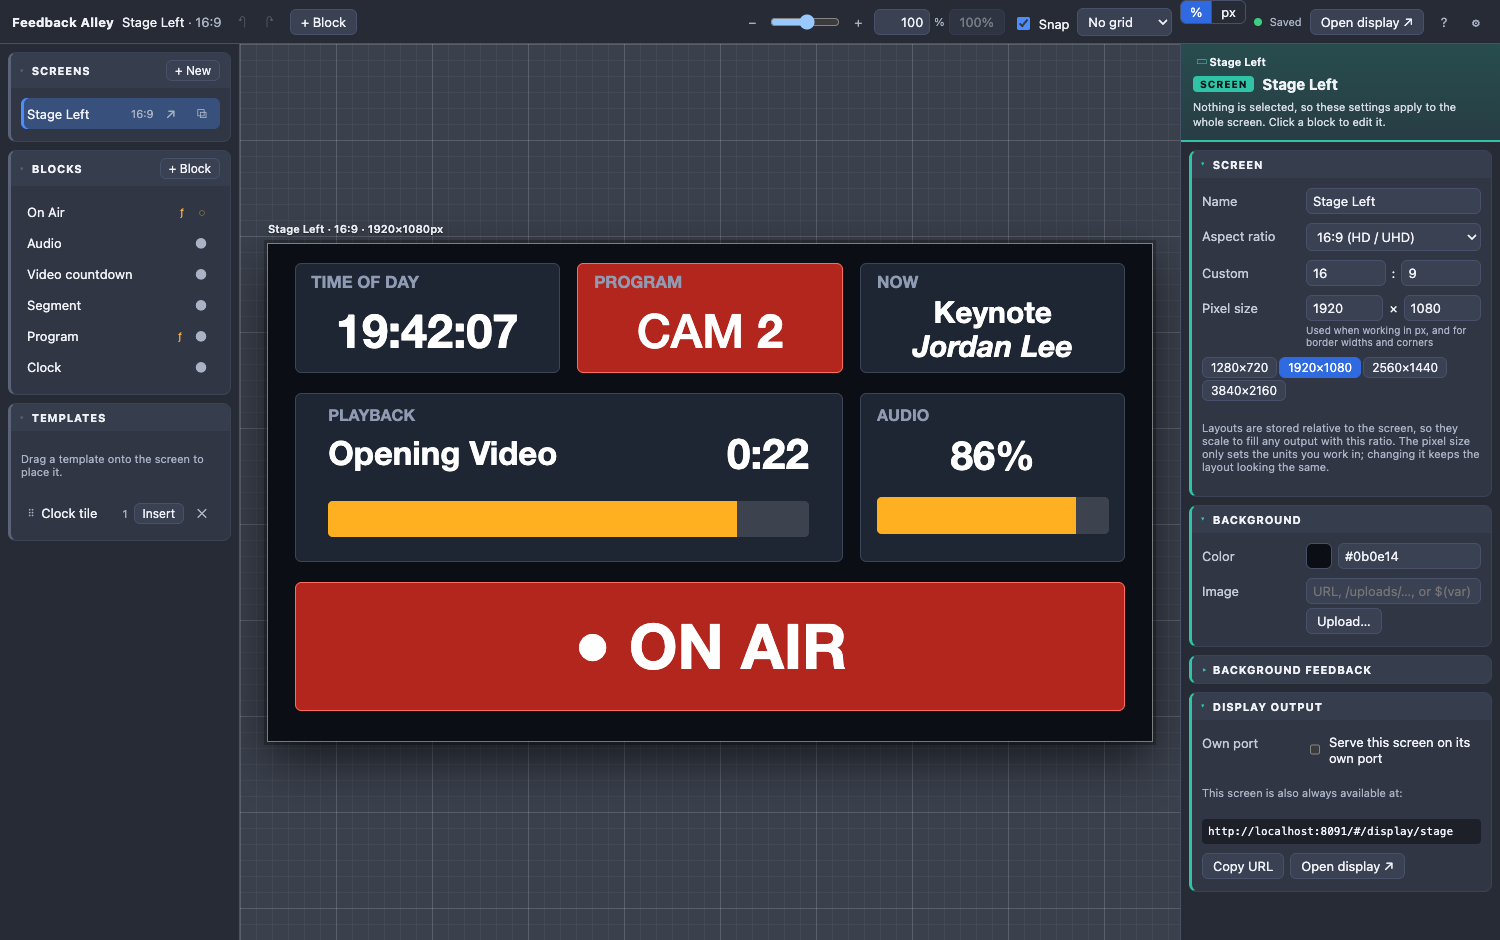
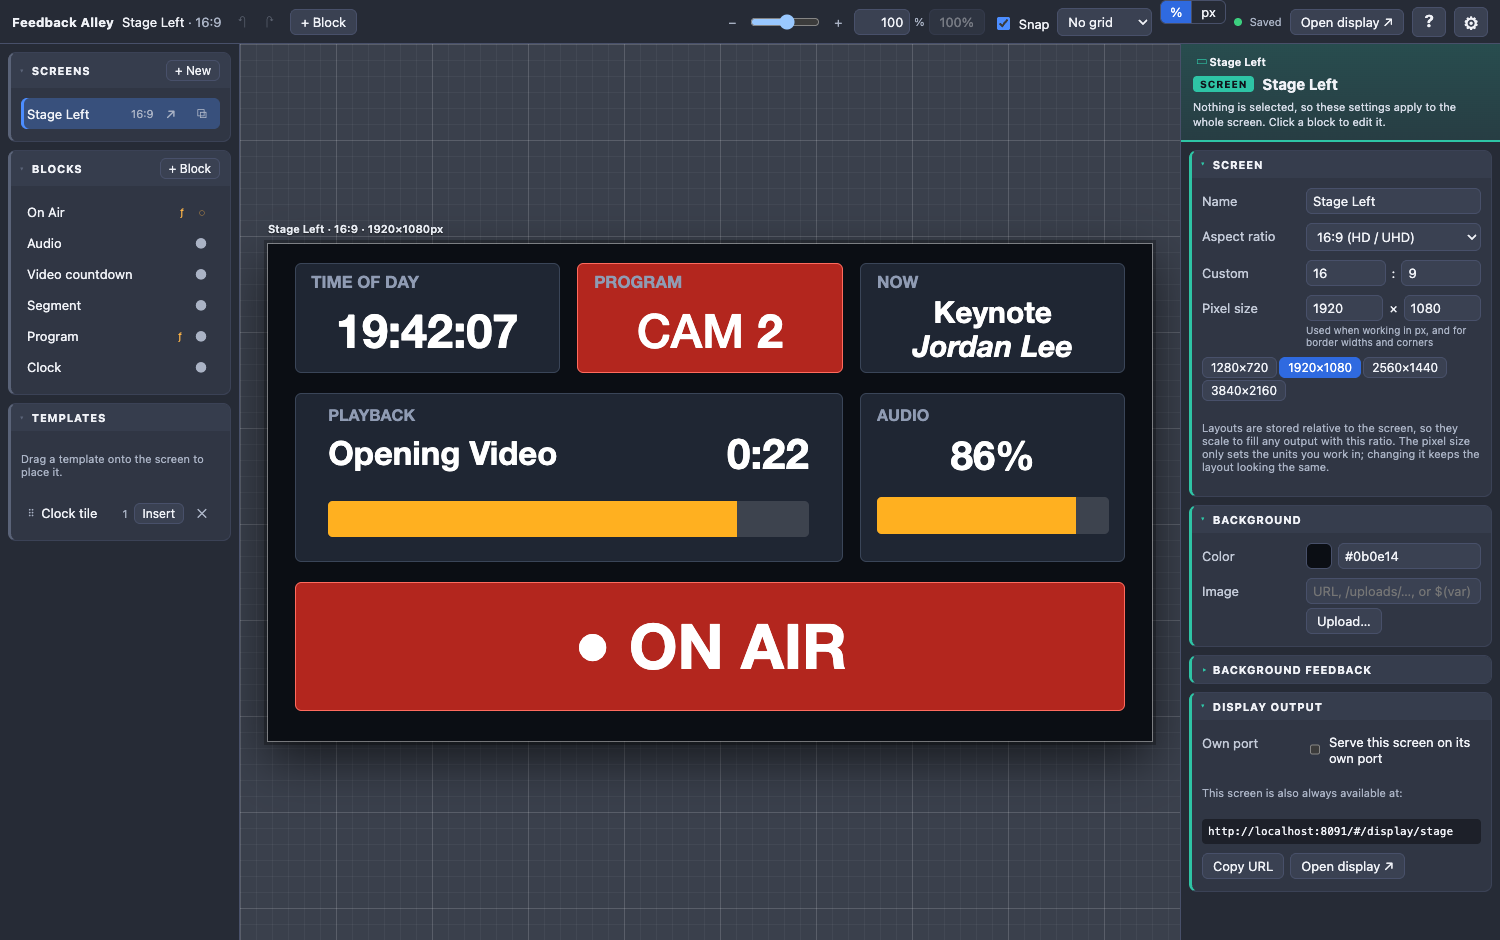
Layers can be fixed size (keep their size, pinned to an anchor) or relative to their block; bigger Settings and help buttons

Changed region(s): [[0.4907, 0.0, 1.0, 0.0617]]

diff --git a/src/editor/Inspector.tsx b/src/editor/Inspector.tsx
@@ -1,7 +1,7 @@
 import type { ReactNode } from 'react';
 import { useEffect, useState } from 'react';
 import { api } from '../lib/api';
-import type { BarLayer, Block, GroupLayer, ImageLayer, Layer, Rect, Screen, ShapeLayer, TextLayer } from '../types';
+import type { Anchor, BarLayer, Block, GroupLayer, ImageLayer, Layer, Rect, Screen, ShapeLayer, TextLayer } from '../types';
 import { ASPECT_PRESETS, RESOLUTIONS } from '../lib/defaults';
 import { containerAt, containerRect, countLayers, groupAt } from '../lib/tree';
 import { rectPx, scaleStrokes, screenPx } from '../lib/pixels';
@@ -10,6 +10,7 @@ import { useActions, type AlignMode } from './actions';
 import { RulesEditor, type RuleProp } from './RulesEditor';
 import { RichTextField } from './RichTextField';
 import { BarProps } from './BarProps';
+import { nearestAnchor } from '../lib/fixed';
 import { ColorField, ImageField, NumberField, Row, Section, Segmented, Select, Slider, TextField, Toggle } from './fields';
 
 export const FONT_SUGGESTIONS = [
@@ -284,6 +285,61 @@ function GeometryFields({ rect, onChange, unit, frame }: { rect: Rect; onChange:
           </label>
         ))}
       </div>
+    </>
+  );
+}
+
+const ANCHOR_NAMES: Record<Anchor, [string, string]> = { 0: ['left', 'top'], 0.5: ['center', 'middle'], 1: ['right', 'bottom'] };
+const ANCHORS: Anchor[] = [0, 0.5, 1];
+
+// Relative layers resize with their block or group; fixed ones keep their size,
+// held in place by an anchor (see lib/fixed.ts).
+function SizingFields({ layer, parentKind, set }: { layer: Layer; parentKind: string; set: Setter }) {
+  const fixed = layer.sizing === 'fixed';
+  const ax = layer.anchorX ?? 0.5;
+  const ay = layer.anchorY ?? 0.5;
+  const anchorLabel = (x: Anchor, y: Anchor) =>
+    x === 0.5 && y === 0.5 ? 'center' : x === 0.5 ? ANCHOR_NAMES[y][1] : y === 0.5 ? ANCHOR_NAMES[x][0] : `${ANCHOR_NAMES[y][1]} ${ANCHOR_NAMES[x][0]}`;
+  return (
+    <>
+      <Row
+        label="Sizing"
+        hint={fixed ? `Keeps its size when the ${parentKind} is resized` : `Resizes along with the ${parentKind}`}
+      >
+        <Segmented
+          value={fixed ? 'fixed' : 'relative'}
+          onChange={(v) =>
+            set((l) => {
+              if (v === 'fixed') {
+                const a = nearestAnchor(l);
+                Object.assign(l, { sizing: 'fixed', anchorX: l.anchorX ?? a.ax, anchorY: l.anchorY ?? a.ay });
+              } else {
+                l.sizing = 'relative';
+              }
+            })
+          }
+          options={[
+            { value: 'relative', label: `Relative to ${parentKind}`, title: `Resizes along with the ${parentKind}` },
+            { value: 'fixed', label: 'Fixed', title: `Keeps its size when the ${parentKind} is resized` },
+          ]}
+        />
+      </Row>
+      {fixed && (
+        <Row label="Anchor" hint={`Stays pinned to the ${parentKind}’s ${anchorLabel(ax, ay)} as it resizes`}>
+          <span className="anchor-grid">
+            {ANCHORS.map((y) =>
+              ANCHORS.map((x) => (
+                <button
+                  key={`${x}-${y}`}
+                  className={x === ax && y === ay ? 'on' : ''}
+                  title={`Pin to the ${anchorLabel(x, y)}`}
+                  onClick={() => set((l) => Object.assign(l, { anchorX: x, anchorY: y }))}
+                />
+              )),
+            )}
+          </span>
+        </Row>
+      )}
     </>
   );
 }
@@ -581,9 +637,10 @@ function LayerInspector({ block, path, layer, inside = false }: { block: Block; 
       <button className="back-to-block" onClick={() => (inside ? actions.exitLevel() : setSel(selectLayers(block.id, path, [])))}>
         ← {inside ? `Step out of “${layer.name}”` : `Back to ${parentKind} “${parentName}”`}
       </button>
-      <Section title="Position & visibility">
+      <Section title="Position & size">
         <Row label="Name"><TextField value={layer.name} onChange={(v) => set((l) => (l.name = v))} /></Row>
         <GeometryFields rect={layer} unit={parentKind} frame={rectPx(screen, containerRect(block, path))} onChange={(r) => set((l) => Object.assign(l, r))} />
+        <SizingFields layer={layer} parentKind={parentKind} set={set} />
         <span className="btn-row">
           <button onClick={() => set((l) => Object.assign(l, { x: 0, y: 0, w: 100, h: 100 }))}>Fill {parentKind}</button>
         </span>

diff --git a/src/lib/fixed.ts b/src/lib/fixed.ts
@@ -1,0 +1,69 @@
+import type { Anchor, Block, FixedState, Layer, Project, Rect } from '../types';
+import { toOuter } from './tree';
+
+// Fixed-size layers keep their size when their block or group is resized.
+//
+// Layer geometry is always stored in % of the parent, so the renderer and
+// editor tools need no special cases. Instead, after every edit, each fixed
+// layer is checked against what it remembers: its size in screen %, plus the
+// parent's id and size at that time.
+//  - Same parent, parent resized: put the layer back to its remembered size,
+//    holding its anchor in place.
+//  - Same parent, same size: the layer itself was edited; remember its new size.
+//  - Different parent (grouped, pasted, duplicated, template): remember as-is.
+
+const EPS = 1e-6;
+const same = (a: number, b: number) => Math.abs(a - b) < EPS;
+
+// The anchor point closest to where a layer sits in its parent.
+export function nearestAnchor(r: Rect): { ax: Anchor; ay: Anchor } {
+  const pick = (start: number, size: number): Anchor => {
+    const c = start + size / 2;
+    return c < 100 / 3 ? 0 : c > 200 / 3 ? 1 : 0.5;
+  };
+  return { ax: pick(r.x, r.w), ay: pick(r.y, r.h) };
+}
+
+// Keep the anchored edge's distance from the parent's edge (left/right/top/
+// bottom anchors) or the center's relative position (center anchors).
+function place(pos: number, size: number, newSize: number, anchor: number, oldParent: number, newParent: number) {
+  if (anchor === 0) return (pos * oldParent) / newParent;
+  if (anchor === 1) return 100 - newSize - ((100 - pos - size) * oldParent) / newParent;
+  return pos + size / 2 - newSize / 2;
+}
+
+function syncLayers(layers: Layer[], parent: Rect, parentId: string) {
+  for (const l of layers) {
+    if (l.sizing === 'fixed') {
+      const f = l.fixed;
+      const fresh = (): FixedState => ({ w: (l.w * parent.w) / 100, h: (l.h * parent.h) / 100, cw: parent.w, ch: parent.h, c: parentId });
+      if (!f || f.c !== parentId) {
+        l.fixed = fresh();
+      } else if (!same(f.cw, parent.w) || !same(f.ch, parent.h)) {
+        // parent resized: restore the remembered size around the anchor
+        const w = (f.w / parent.w) * 100;
+        const h = (f.h / parent.h) * 100;
+        l.x = place(l.x, l.w, w, l.anchorX ?? 0.5, f.cw, parent.w);
+        l.y = place(l.y, l.h, h, l.anchorY ?? 0.5, f.ch, parent.h);
+        l.w = w;
+        l.h = h;
+        l.fixed = { ...f, cw: parent.w, ch: parent.h };
+      } else if (!same(f.w, (l.w * parent.w) / 100) || !same(f.h, (l.h * parent.h) / 100)) {
+        l.fixed = fresh();
+      }
+    } else if (l.fixed) {
+      delete l.fixed;
+    }
+    if (l.type === 'group') syncLayers(l.layers, toOuter(parent, l), l.id);
+  }
+}
+
+export function syncBlocks(blocks: Block[]) {
+  for (const b of blocks) syncLayers(b.layers, b, b.id);
+}
+
+// Run after every edit.
+export function syncFixedLayers(p: Project) {
+  for (const s of p.screens) syncBlocks(s.blocks);
+  for (const t of p.templates) syncBlocks(t.blocks);
+}

diff --git a/public/guide/index.html b/public/guide/index.html
@@ -332,10 +332,20 @@
 </table>
 <p>Every layer also has:</p>
 <ul>
-  <li><b>Position &amp; visibility</b>: position and size within the block, alignment, opacity and Hidden. <b>Fill block</b> makes the layer cover the whole block.</li>
+  <li><b>Position &amp; size</b>: position and size within the block, sizing (below), alignment, opacity and Hidden. <b>Fill block</b> makes the layer cover the whole block.</li>
   <li><b>Background &amp; corners</b>: a background color and/or image for just this layer, and rounded corners.</li>
   <li><b>Feedback rules</b>: change this layer when Companion values change.</li>
 </ul>
+<h3>Relative or fixed size</h3>
+<p>Each layer’s <b>Sizing</b> setting, under <b>Position &amp; size</b>, decides what happens when you resize its block (or group):</p>
+<ul>
+  <li><b>Relative to block</b> (the default): the layer resizes along with the block, keeping its proportions within it.</li>
+  <li><b>Fixed</b>: the layer keeps its size and shape, for example a logo or status light that shouldn’t stretch.</li>
+</ul>
+<p>
+  A fixed layer also has an <b>Anchor</b>: the point of the block it stays pinned to. Pinned to a side or corner, it keeps the same distance
+  from that edge; pinned to the center, it stays centered. When you switch a layer to Fixed, the anchor nearest to it is chosen for you.
+</p>
 <p>Layers higher in the Layers list are drawn on top. Use the <b>Arrange</b> buttons to move a layer forward or backward.</p>
 
 <!-- ===================================================================== -->

diff --git a/src/styles.css b/src/styles.css
@@ -84,6 +84,11 @@ code { font-family: ui-monospace, Menlo, monospace; font-size: 11px; background:
 }
 .brand { font-weight: 700; letter-spacing: 0.02em; white-space: nowrap; }
 .topbar > * { flex-shrink: 0; }
+.topbar .top-icon {
+  width: 34px; height: 30px; padding: 0; display: inline-grid; place-items: center;
+  font-size: 17px; font-weight: 700; line-height: 1; text-decoration: none; color: var(--text);
+}
+.topbar .settings-btn { font-size: 22px; font-weight: 400; }
 .topbar .btn-row { flex-wrap: nowrap; }
 .topbar button { white-space: nowrap; }
 /* narrower windows: keep everything on one line */
@@ -387,5 +392,10 @@ select.fmt-size:hover { border-color: var(--line); }
 @media (max-width: 1000px) {
   .editor { grid-template-columns: 200px 1fr 280px; }
 }
+.anchor-grid { display: inline-grid; grid-template-columns: repeat(3, 22px); gap: 3px; padding: 4px; border: 1px solid var(--line); border-radius: 6px; background: var(--input-bg, #00000022); }
+.anchor-grid button { width: 22px; height: 22px; min-width: 0; padding: 0; border-radius: 4px; display: grid; place-items: center; }
+.anchor-grid button::after { content: ''; width: 6px; height: 6px; border-radius: 50%; background: var(--muted); }
+.anchor-grid button.on { background: var(--accent-2); border-color: transparent; }
+.anchor-grid button.on::after { background: white; width: 8px; height: 8px; }
 .btn-row button.on { background: var(--accent-2); color: white; border-color: transparent; }
 .topbar .segmented.units button { min-width: 30px; }

diff --git a/src/editor/Editor.tsx b/src/editor/Editor.tsx
@@ -143,8 +143,8 @@ function TopBar({ serverDown, onSettings }: { serverDown: boolean; onSettings: (
       <span className={`status ${connState.cls}`} title={connState.text}><span className="dot" /><span className="status-text">{connState.text}</span></span>
       <span className={`save-state ${saveState}`}>{saveState === 'saved' ? 'Saved' : saveState === 'saving' ? 'Saving…' : 'Save failed'}</span>
       <a className="button" href={`#/display/${screen.id}`} target="_blank" rel="noreferrer">Open display ↗</a>
-      <a className="button icon" href="guide/index.html" target="_blank" rel="noreferrer" title="User guide">?</a>
-      <button className="icon" title="Settings & connections" onClick={onSettings}>⚙</button>
+      <a className="button top-icon" href="guide/index.html" target="_blank" rel="noreferrer" title="User guide">?</a>
+      <button className="top-icon settings-btn" title="Settings & connections" onClick={onSettings}>⚙</button>
     </header>
   );
 }

diff --git a/src/types.ts b/src/types.ts
@@ -62,6 +62,22 @@ interface LayerBase extends Rect {
   bgImage: string; // '' = none; url, /uploads/..., may contain variables
   bgFit: 'contain' | 'cover' | 'fill';
   radius: number; // reference px
+  // 'relative' (default): resizes with its block or group. 'fixed': keeps its
+  // size when the parent is resized, held in place by its anchor.
+  sizing?: 'relative' | 'fixed';
+  anchorX?: Anchor; // 0 left, 0.5 center, 1 right
+  anchorY?: Anchor; // 0 top, 0.5 middle, 1 bottom
+  fixed?: FixedState; // bookkeeping for fixed layers (see lib/fixed.ts)
+}
+
+export type Anchor = 0 | 0.5 | 1;
+
+export interface FixedState {
+  w: number; // layer size in screen %
+  h: number;
+  cw: number; // parent size in screen % when last synced
+  ch: number;
+  c: string; // parent id (block or group)
 }
 
 export interface TextLayer extends LayerBase {

diff --git a/src/lib/store.tsx b/src/lib/store.tsx
@@ -2,6 +2,7 @@ import { createContext, useCallback, useContext, useEffect, useMemo, useRef, use
 import type { Block, Layer, Project } from '../types';
 import { api } from './api';
 import { newProject } from './defaults';
+import { syncFixedLayers } from './fixed';
 
 const HISTORY_LIMIT = 150;
 const SAVE_DELAY_MS = 400;
@@ -85,6 +86,7 @@ export function StoreProvider({ initial, children }: { initial: Project; childre
       const prev = projectRef.current;
       const next = structuredClone(prev);
       fn(next);
+      syncFixedLayers(next);
       if (!transient) pushHistory(prev);
       commit(next);
     },

diff --git a/README.md b/README.md
@@ -75,7 +75,7 @@ To build locally: `npm run dist:mac`, `npm run dist:win` or `npm run dist:linux`
 |---|---|
 | **Screen** | A layout with a fixed aspect ratio (16:9, 4:3, 32:9, 9:16, custom…). It is resolution-independent: the same 16:9 screen fills 1280×720, 1920×1080 or 3840×2160 exactly. |
 | **Block** | A positioned box on the screen (fill, border, radius, opacity, feedback rules, optional Companion button press). |
-| **Layer** | Content inside a block: **Text**, **Shape**, **Image** or **Bar/meter**. Layers are positioned in % of their block, so they resize with it. Text can auto-fit its layer. Every layer can have its own background color and/or image and rounded corners. |
+| **Layer** | Content inside a block: **Text**, **Shape**, **Image** or **Bar/meter**. Layers are positioned in % of their block, so they resize with it, or set **Sizing → Fixed** to keep a layer's size, pinned to an anchor point. Text can auto-fit its layer. Every layer can have its own background color and/or image and rounded corners. |
 | **Group** | A layer that holds other layers: a block within a block. Its children are positioned in % of the group, so they follow it, and groups can be nested. A group has its own background, border, corners, clipping and feedback rules (e.g. hide or color a whole cluster at once). |
 | **Template** | One or more blocks saved with their layers and rules. **Drag** a template onto the screen to place it (it snaps like a move), or click **Insert** to put it where it was saved. When the aspect ratio differs, blocks keep their real proportions. |
 
